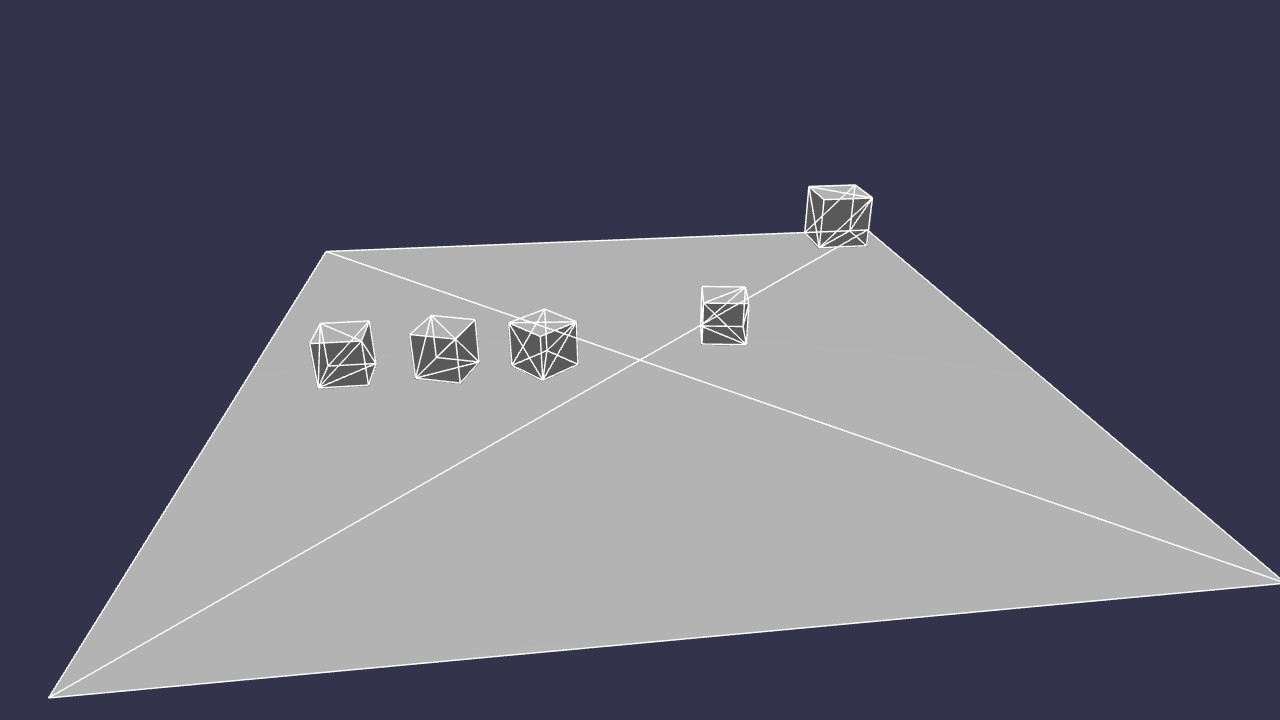
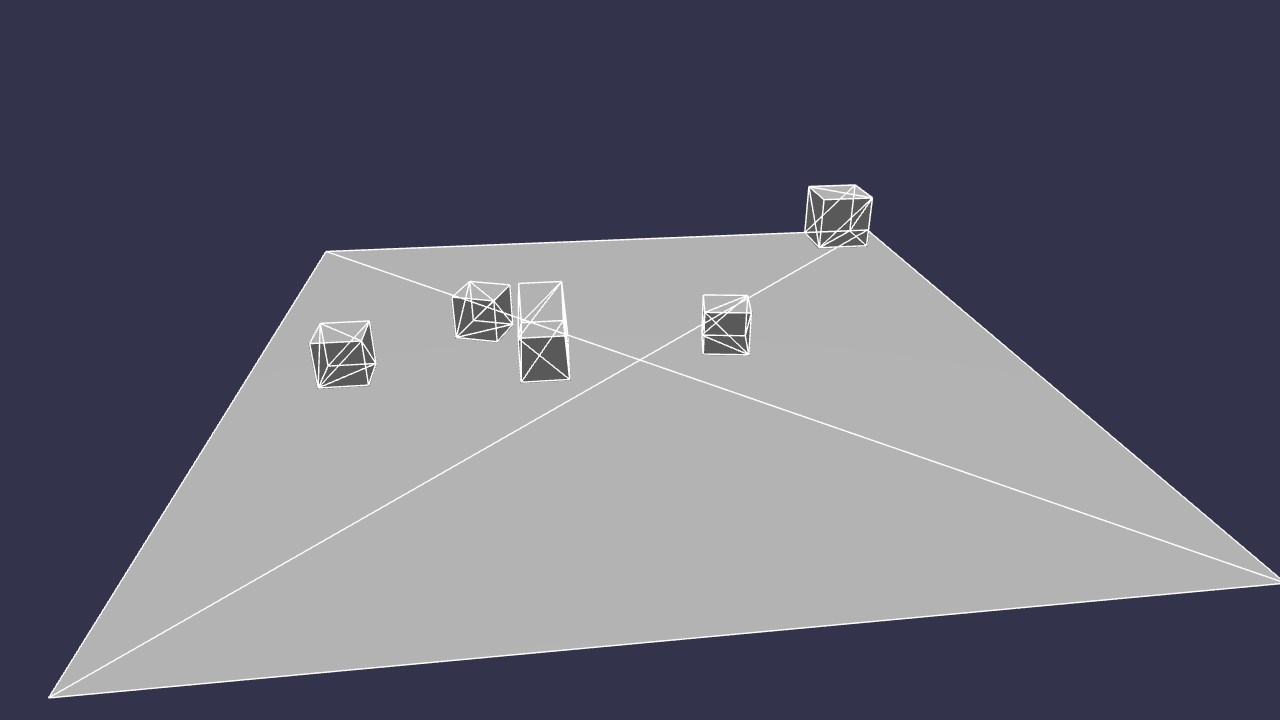
fix(physics): update scene306 to better test loacl transforms

Changed region(s): [[0.3125, 0.3972, 0.4688, 0.55], [0.5312, 0.3972, 0.5938, 0.5194]]

diff --git a/lab/lite/src/bjs/scene306.ts b/lab/lite/src/bjs/scene306.ts
@@ -78,12 +78,13 @@ function readCaptureAfterFrames(): number | null {
         restitution: 0.1,
     });
 
-    // dynamic cube2 with offset parent
+    // dynamic cube2 with translated and rotated parent
     const parent2 = new TransformNode("parent2", scene);
     parent2.position.set(-4, 3, 0);
-
     parent2.rotationQuaternion = Quaternion.FromEulerAngles(0, (20 * Math.PI) / 180, 0);
+
     const cube2 = MeshBuilder.CreateBox("cube2", undefined, scene);
+    cube2.position.set(0, 0, 2);
     cube2.material = cubeMat;
     cube2.parent = parent2;
     new PhysicsAggregate(cube2, PhysicsShapeType.BOX, {
@@ -96,9 +97,9 @@ function readCaptureAfterFrames(): number | null {
     const root = new TransformNode("__root__", scene);
     root.scaling.z = -1;
     root.rotationQuaternion = Quaternion.FromEulerAngles(0, Math.PI, 0);
-    const cube3 = MeshBuilder.CreateBox("cube3", undefined, scene);
+    const cube3 = MeshBuilder.CreateBox("cube3", { height: 3 }, scene);
     cube3.position.set(2, 3, 0);
-    cube3.rotationQuaternion = Quaternion.FromEulerAngles(0, (40 * Math.PI) / 180, 0);
+    cube3.rotationQuaternion = Quaternion.FromEulerAngles((40 * Math.PI) / 180, 0, 0);
     cube3.material = cubeMat;
     cube3.parent = root;
     new PhysicsAggregate(cube3, PhysicsShapeType.BOX, {
@@ -109,10 +110,12 @@ function readCaptureAfterFrames(): number | null {
 
     // dynamic cube4 with offset parents and pre-step
     const parent4a = new TransformNode("parent4a", scene);
-    const parent4b = new TransformNode("parent4", scene);
+    const parent4b = new TransformNode("parent4b", scene);
     parent4b.position.set(2, 3, 0);
     parent4b.parent = parent4a;
+
     const cube4 = MeshBuilder.CreateBox("cube4", undefined, scene);
+    cube4.position.set(0.5, 0, 0);
     cube4.material = cubeMat;
     cube4.parent = parent4b;
     const agg4 = new PhysicsAggregate(cube4, PhysicsShapeType.BOX, {

diff --git a/lab/lite/src/lite/scene306.ts b/lab/lite/src/lite/scene306.ts
@@ -102,7 +102,9 @@ async function main(): Promise<void> {
     const rotQ = eulerXYZToQuatTuple(0, (20 * Math.PI) / 180, 0);
     parent2.rotationQuaternion.set(rotQ[0], rotQ[1], rotQ[2], rotQ[3]);
     addToScene(scene, parent2);
+
     const cube2 = createBox(engine, 1);
+    cube2.position.set(0, 0, 2);
     cube2.material = cubeMat;
     cube2.parent = parent2;
     parent2.children.push(cube2);
@@ -113,9 +115,9 @@ async function main(): Promise<void> {
     const root = createTransformNode("root");
     root.scaling.x = -1;
     addToScene(scene, root);
-    const cube3 = createBox(engine, 1);
-    cube3.position.set(-2, 3, 0);
-    const rotQ2 = eulerXYZToQuatTuple(0, (40 * Math.PI) / 180, 0);
+    const cube3 = createBox(engine, { height: 3 });
+    cube3.position.set(2, 3, 0);
+    const rotQ2 = eulerXYZToQuatTuple((40 * Math.PI) / 180, 0, 0);
     cube3.rotationQuaternion.set(rotQ2[0], rotQ2[1], rotQ2[2], rotQ2[3]);
     cube3.material = cubeMat;
     cube3.parent = root;
@@ -130,7 +132,9 @@ async function main(): Promise<void> {
     parent4b.parent = parent4a;
     parent4a.children.push(parent4b);
     addToScene(scene, parent4b);
+
     const cube4 = createBox(engine, 1);
+    cube4.position.set(0.5, 0, 0);
     cube4.material = cubeMat;
     cube4.parent = parent4b;
     parent4b.children.push(cube4);
